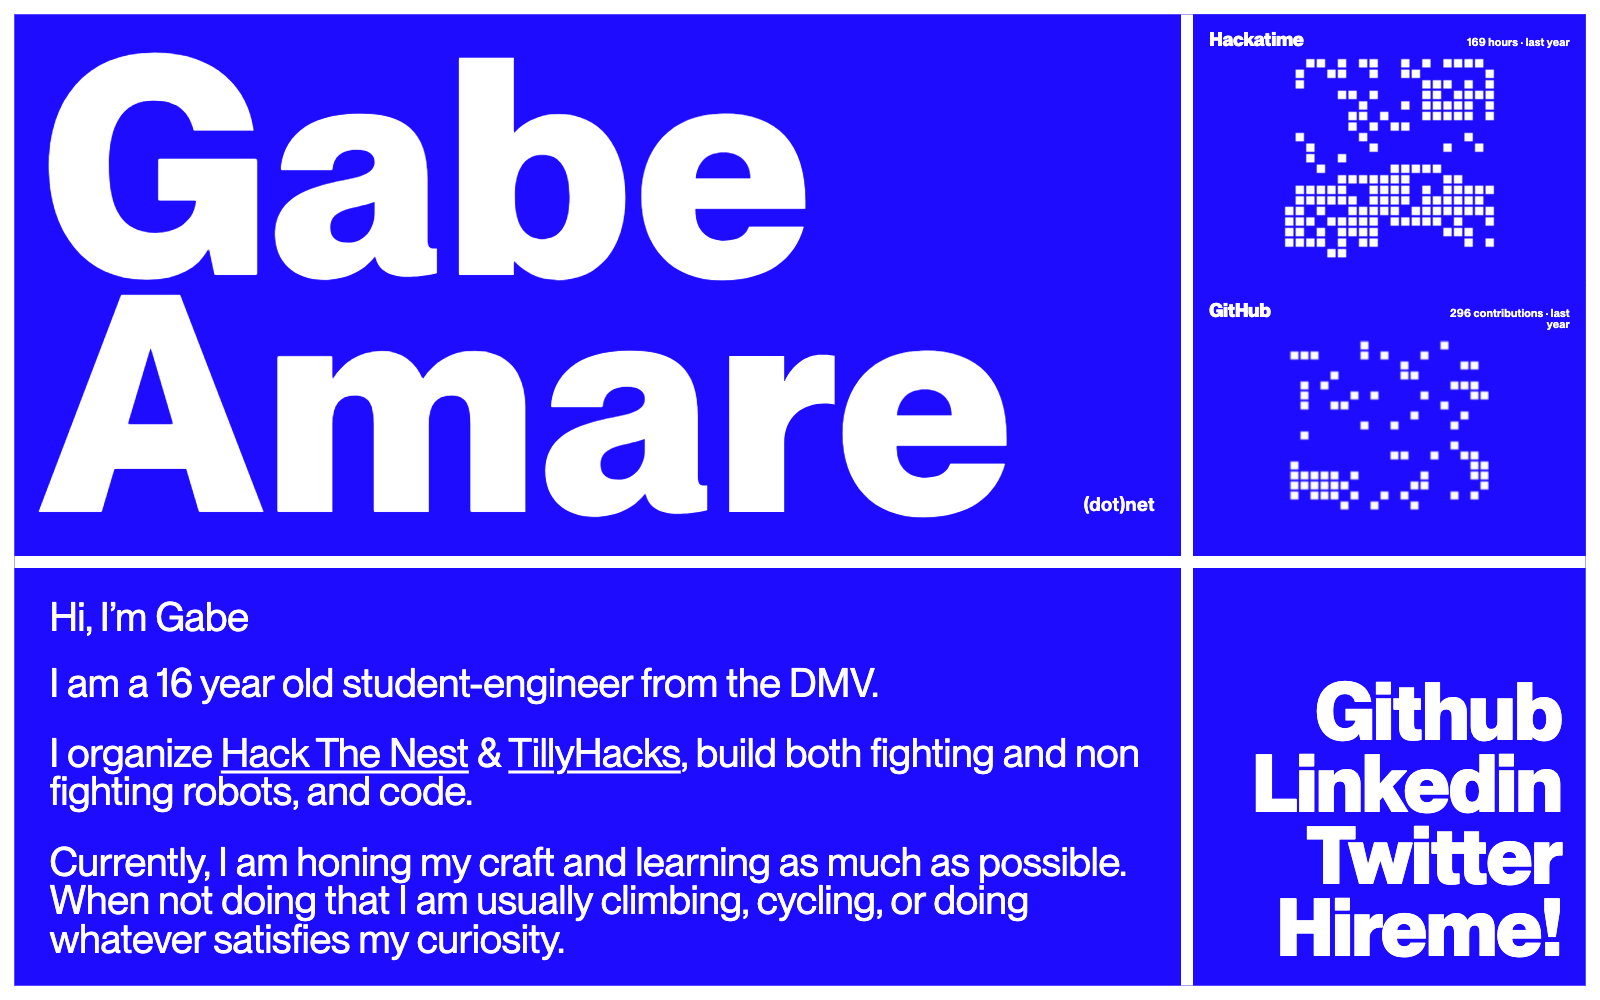
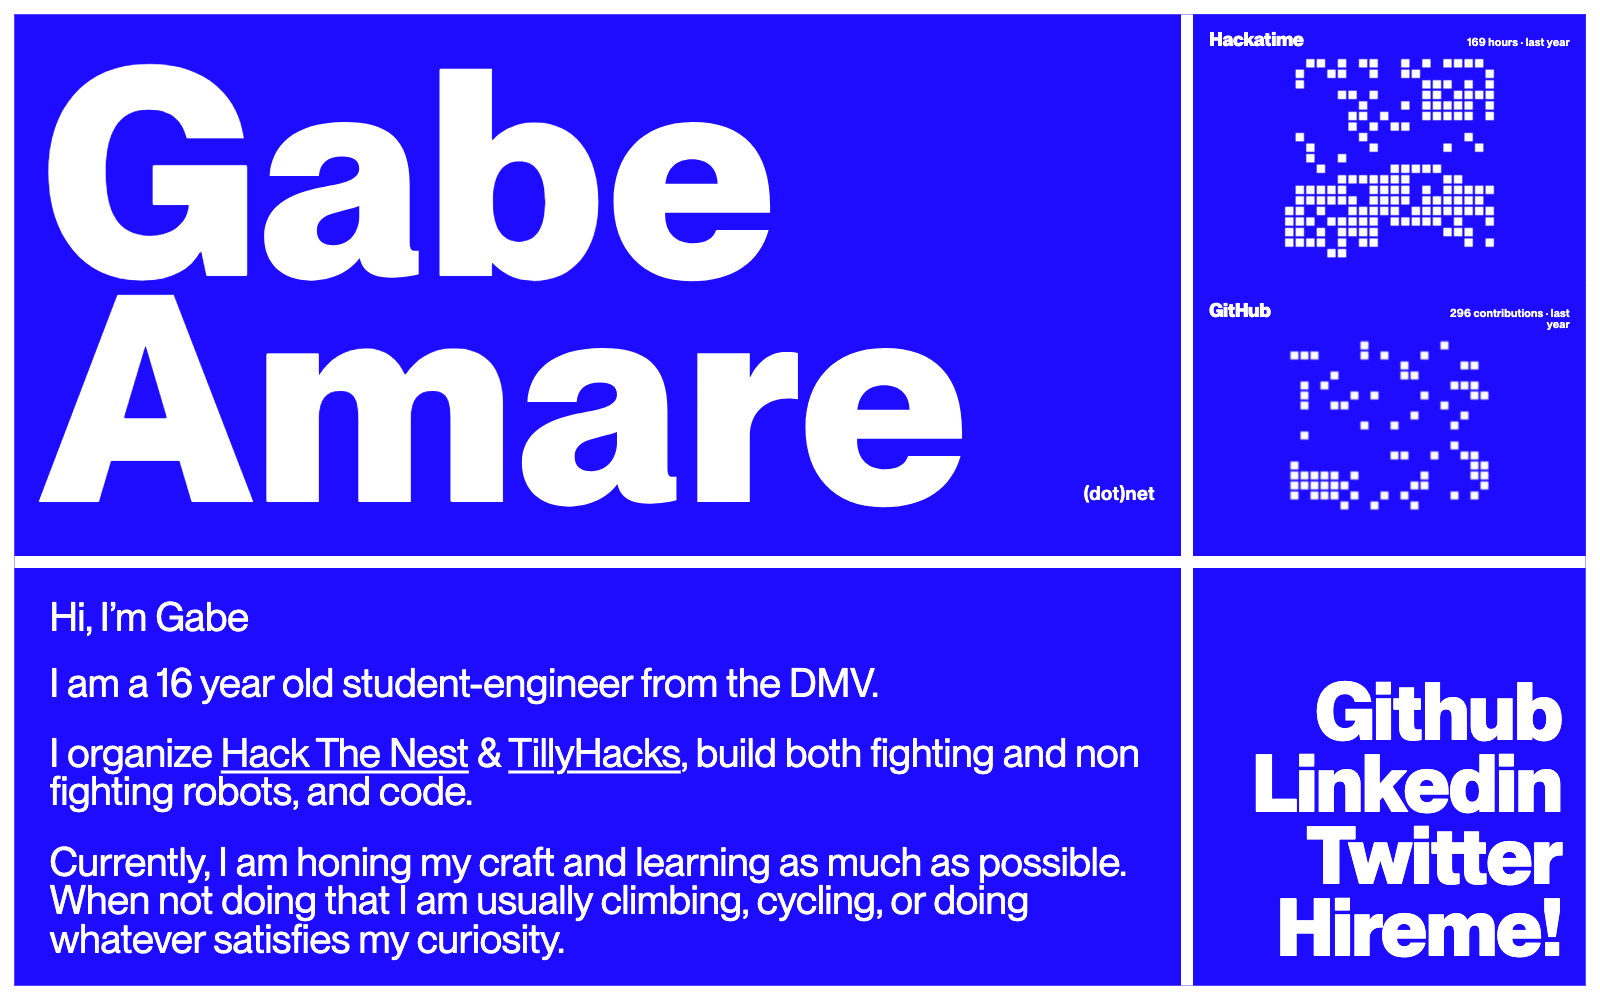
Scale the wordmark within its panel

diff --git a/app/home.module.css b/app/home.module.css
@@ -47,7 +47,7 @@
   height: 100%;
   margin: 0;
   font-family: var(--font-neue);
-  font-size: clamp(5.5rem, min(22vw, 36vh), 19rem);
+  font-size: clamp(4rem, min(26cqw, 60cqh), 19rem);
   font-weight: 800;
   letter-spacing: 0.01em;
   line-height: 0.78;
@@ -76,7 +76,7 @@
   align-self: flex-end;
   margin: 0 0 0.45em auto;
   font-family: var(--font-neue);
-  font-size: clamp(0.7rem, 1.2vw, 1.2rem);
+  font-size: clamp(0.7rem, 2cqw, 1.2rem);
   font-weight: 600;
   letter-spacing: 0.025em;
   line-height: 1;
@@ -204,7 +204,7 @@
   }
 
   .name {
-    font-size: clamp(5.5rem, min(29vw, 30vh), 9rem);
+    font-size: clamp(4rem, min(26cqw, 60cqh), 12rem);
     line-height: 0.8;
   }
 
